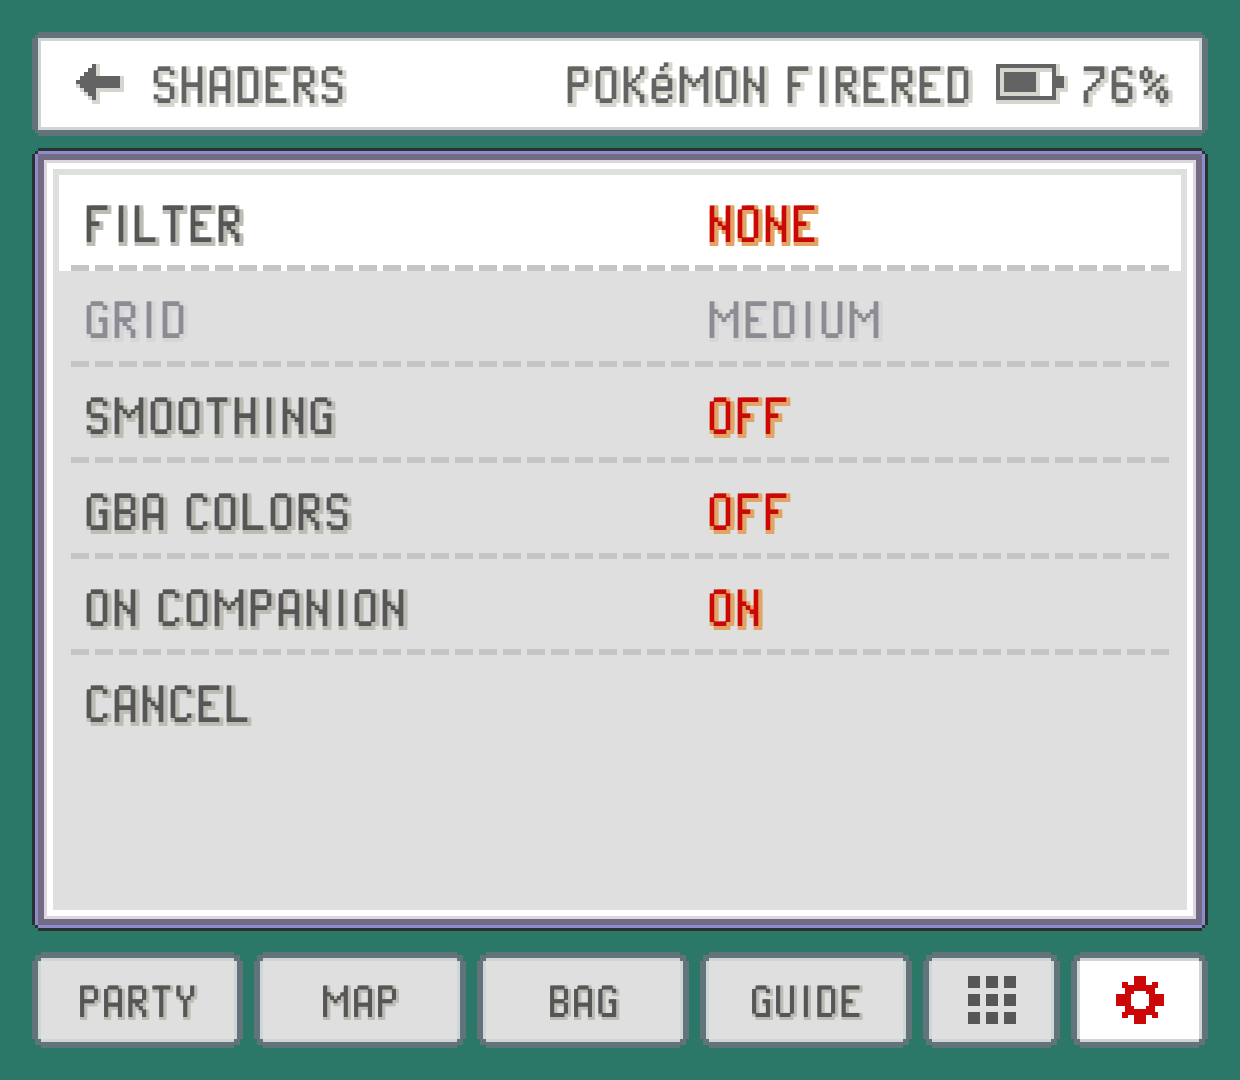
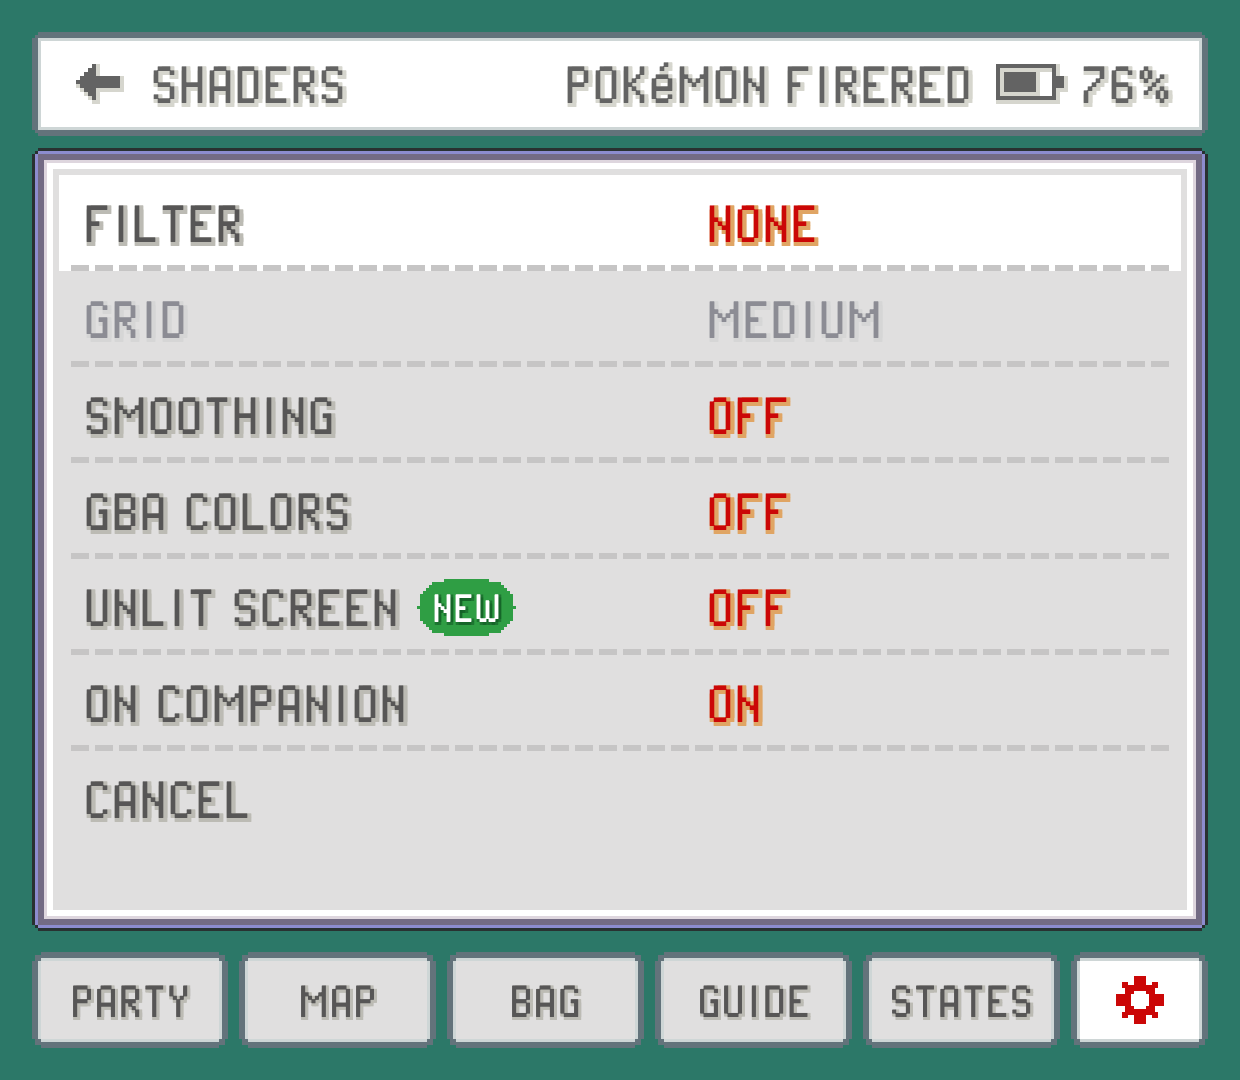
UNLIT SCREEN: the first GBA's unlit screen as a SHADERS switch (GitHub #105)
White shows the screen's grey-green backing instead of glowing, and dark pixels
drop a soft shadow down and to the right onto it. Our own shader (the issue's
examples were only looked at): in linear light, backing x the pixel x the cell the
light came in through, up-left of it. Its own pass between SMOOTHING and FILTER, at
FILTER's whole multiple or the view's pixels, so every filter stacks on it; the game
only, not ON COMPANION. Off by default, NEW tag on both screens, the manual,
translations and search words.

diff --git a/app/src/main/kotlin/com/pokedaisy/app/EmulatorView.kt b/app/src/main/kotlin/com/pokedaisy/app/EmulatorView.kt
@@ -187,6 +187,14 @@ class EmulatorView(context: Context) : GLSurfaceView(context) {
             renderer.setGbaColors(v)
         }
 
+    /** SHADERS > UNLIT SCREEN ([Prefs.unlitScreen], [ScreenShaders.UNLIT]): drawn between SMOOTHING and FILTER. */
+    var unlit: Boolean = false
+        set(v) {
+            if (field == v) return
+            field = v
+            renderer.setUnlit(v)
+        }
+
     /** SHADERS > FILTER's effect ([Prefs.screenFilter], [ScreenShaders.effectFor]); null = none. */
     internal var screenEffect: ScreenShaders.Effect? = null
         set(v) {
@@ -333,9 +341,9 @@ class EmulatorView(context: Context) : GLSurfaceView(context) {
     }
 
     /**
-     * Draws the frame in up to three passes: the GBA colour correction ([gbaColors]) at the
-     * GBA's own size, a prescaled screen effect ([setEffect]) at the largest whole multiple of
-     * it that fits, then the result onto the view - nearest-filtered, or smoothly once an
+     * Draws the frame in up to four passes: the GBA colour correction ([gbaColors]) at the
+     * GBA's own size, UNLIT SCREEN ([setUnlit]) at the size the next pass reads, a prescaled
+     * screen effect ([setEffect]) at the largest whole multiple of it that fits, then the result onto the view - nearest-filtered, or smoothly once an
      * effect has scaled it up (from a whole multiple, so its grid stays even). An effect that
      * isn't prescaled is that last pass itself. With neither, it's the one plain pass it always was.
      *
@@ -369,6 +377,7 @@ class EmulatorView(context: Context) : GLSurfaceView(context) {
         private var dirtyGeometry = true
         private var stretch = false
         private var gbaColors = false
+        private var unlit = false
         private var effect: ScreenShaders.Effect? = null
         /** SMOOTHING's passes; [smoothPrograms] are built from them on the GL thread. */
         private var smoothPasses: List<LoadedPass>? = null
@@ -389,11 +398,13 @@ class EmulatorView(context: Context) : GLSurfaceView(context) {
 
         private var plain: Program? = null
         private var colorProgram: Program? = null
+        private var unlitProgram: Program? = null
         private var effectProgram: Program? = null
         private var effectProgramFor: ScreenShaders.Effect? = null
         private var texId = 0
         private var texAllocated = false
         private var colorTarget = RenderTarget()
+        private var unlitTarget = RenderTarget()
         private var effectTarget = RenderTarget()
         @Volatile var holdFrame: () -> Boolean = { false }
         @Volatile var framesShown = 0L
@@ -486,6 +497,8 @@ class EmulatorView(context: Context) : GLSurfaceView(context) {
 
         fun setGbaColors(on: Boolean) = synchronized(lock) { gbaColors = on }
 
+        fun setUnlit(on: Boolean) = synchronized(lock) { unlit = on }
+
         fun setEffect(e: ScreenShaders.Effect?) = synchronized(lock) { effect = e }
 
         fun setGrid(x: Float, y: Float) = synchronized(lock) { gridX = x; gridY = y }
@@ -512,10 +525,12 @@ class EmulatorView(context: Context) : GLSurfaceView(context) {
             GLES20.glClearColor(0f, 0f, 0f, 1f)
             plain = Program(ScreenShaders.PLAIN)
             colorProgram = Program(ScreenShaders.GBA_COLOR)
+            unlitProgram = Program(ScreenShaders.UNLIT)
             overlayProgram = Program(ScreenShaders.OVERLAY)
             effectProgram = null
             effectProgramFor = null
             colorTarget = RenderTarget()
+            unlitTarget = RenderTarget()
             effectTarget = RenderTarget()
             smoothPrograms = null
             smoothBuiltFor = null
@@ -625,9 +640,27 @@ class EmulatorView(context: Context) : GLSurfaceView(context) {
                 input = smoothed
                 smooth = true
             }
+            // UNLIT SCREEN: at the size the next pass reads (FILTER's whole multiple, else the view's own pixels),
+            // since its shadow falls between GBA pixels; that pass then reads it where it is, like SMOOTHING's.
+            val shade = unlitProgram
+            var unlitDrawn = false
+            if (unlit && shade != null) {
+                val (w, h) = if (prescaled) texW * kx to texH * ky
+                    else maxOf(1, quadW.roundToInt()) to maxOf(1, quadH.roundToInt())
+                if (unlitTarget.ensure(w, h)) {
+                    // Read smoothly: the shadow's taps sit between pixels; its own pixel is read at its centre.
+                    GLES20.glBindFramebuffer(GLES20.GL_FRAMEBUFFER, unlitTarget.fbo)
+                    GLES20.glViewport(0, 0, w, h)
+                    drawQuad(shade, input, passUv, fullQuad, smooth = true, smoothed = smoothed != 0)
+                    input = unlitTarget.tex
+                    smooth = true
+                    unlitDrawn = true
+                }
+            }
+            val readsPicture = smoothed != 0 || unlitDrawn
             if (prescaled) {
                 if (effectTarget.ensure(texW * kx, texH * ky)) {
-                    pass(fx!!, input, effectTarget, sample = smoothed != 0)
+                    pass(fx!!, input, effectTarget, sample = readsPicture)
                     input = effectTarget.tex
                     smooth = true
                 }
@@ -637,7 +670,7 @@ class EmulatorView(context: Context) : GLSurfaceView(context) {
 
             GLES20.glBindFramebuffer(GLES20.GL_FRAMEBUFFER, 0)
             GLES20.glViewport(0, 0, surfaceW, surfaceH)
-            drawQuad(last, input, viewUv, pos, smooth, smoothed = smoothed != 0 && !prescaled)
+            drawQuad(last, input, viewUv, pos, smooth, smoothed = readsPicture && !prescaled)
             if (overlayOnTop && win == null) drawOverlay()
         }
 

diff --git a/app/src/main/kotlin/com/pokedaisy/app/ScreenShaders.kt b/app/src/main/kotlin/com/pokedaisy/app/ScreenShaders.kt
@@ -98,6 +98,40 @@ internal object ScreenShaders {
     """.trimIndent()
 
     /**
+     * SHADERS > UNLIT SCREEN ([Prefs.unlitScreen], GitHub #105): the GBA's own screen had no light of its
+     * own - room light went in through each LCD cell, off a grey-green backing behind it and out again,
+     * so white was that backing, never a glow. Ours, not a port (the issue's examples, Pixel Transparency
+     * and PT-SkyWalker541, were only looked at): in linear light a pixel is the backing times what its
+     * cell lets through, times what the cell the light came in through let through - up-left of it,
+     * [shadowOffset] GBA pixels, since the backing sits behind the cells - so dark pixels drop a soft
+     * shadow (four taps [shadowSoft] apart, read smoothly) onto the light ones beside them, while dark
+     * stays dark. Its own pass between SMOOTHING and FILTER (any filter draws over it), at the
+     * view's pixels or FILTER's whole multiple: the shadow falls between GBA pixels. Picked in the
+     * browser harness on Emerald's battle and FireRed's START menu at the Thor's 1620x1080.
+     */
+    val UNLIT = """
+        $HEADER
+        const float gamma = 2.2;
+        const vec3 backing = vec3(0.82, 0.84, 0.77);
+        const vec2 shadowOffset = vec2(0.6, 0.8);
+        const float shadowSoft = 0.4;
+        const float shadowStrength = 0.6;
+        const vec3 luma709 = vec3(0.2126, 0.7152, 0.0722);
+        float through(vec2 p) {
+            return dot(pow(texture2D(uTex, p / uTexSize).rgb, vec3(gamma)), luma709);
+        }
+        void main() {
+            vec2 pos = vUv * uTexSize;
+            vec3 c = texture2D(uTex, uSmoothed > 0.5 ? vUv : (floor(pos) + 0.5) / uTexSize).rgb;
+            vec2 s = pos - shadowOffset;
+            float t = 0.25 * (through(s + vec2(-shadowSoft, -shadowSoft)) + through(s + vec2(shadowSoft, -shadowSoft))
+                            + through(s + vec2(-shadowSoft, shadowSoft)) + through(s + vec2(shadowSoft, shadowSoft)));
+            vec3 l = pow(c, vec3(gamma)) * pow(backing, vec3(gamma)) * mix(1.0, t, shadowStrength);
+            gl_FragColor = vec4(pow(l, vec3(1.0 / gamma)), 1.0);
+        }
+    """.trimIndent()
+
+    /**
      * LCD: a dark grid line along the top and left third of every GBA pixel. mGBA's
      * `res/shaders/lcd.shader` (Copyright (C) 2017 Dominus Iniquitatis, MIT - see NOTICE),
      * its line brightness from GRID (`uGrid.x` darkening: SOFT 0.2 is about its 0.9 default doubled).

diff --git a/app/src/main/kotlin/com/pokedaisy/app/companion/ui/SettingRows.kt b/app/src/main/kotlin/com/pokedaisy/app/companion/ui/SettingRows.kt
@@ -99,7 +99,8 @@ val SETTING_KEYWORDS: Map<String, String> = mapOf(
     "HUD" to "field hud heads up display overlay party minimap mini map balls bag wild encounters overworld legends single screen",
     "ASPECT" to "stretch ratio fullscreen full screen size scale 3:2 wide widescreen 16:9 expand zoom",
     "AUTO ZOOM IN" to "expand wide zoom close-up closeup dialogue conversation sign menu text box pull in automatic",
-    "SHADERS" to "filter lcd crt scanlines grid gba colors color correction effects screen look smoothing xbr xbrz scalefx upscale hd edges",
+    "SHADERS" to "filter lcd crt scanlines grid gba colors color correction effects screen look smoothing xbr xbrz scalefx upscale hd edges unlit pixel transparency backlight",
+    "UNLIT SCREEN" to "pixel transparency transparent backlight backlit no backlight unlit reflective backing shadow drop shadow original gba screen white",
     "SMOOTHING" to "xbr xbrz scalefx upscale upscaler hd edges smooth anti alias filter",
     "OVERLAY" to "overlay overlays border borders bezel bezels frame skin retroarch background wallpaper decoration",
     "COMPANION" to "portrait phone bottom position layout",

diff --git a/app/src/main/kotlin/com/pokedaisy/app/companion/i18n/TrSettings.kt b/app/src/main/kotlin/com/pokedaisy/app/companion/i18n/TrSettings.kt
@@ -145,6 +145,7 @@ internal val trSettings: Map<String, Tr> = mapOf(
     "STRONG" to Tr(ja = "つよい", fr = "FORT", de = "STARK", it = "FORTE", es = "FUERTE", br = "FORTE", pt = "FORTE"),
     "SCANLINES" to Tr(ja = "スキャンライン", fr = "SCANLINES", de = "SCANLINES", it = "SCANLINE", es = "SCANLINES", br = "SCANLINES", pt = "SCANLINES"),
     "CRT" to Tr(ja = "ブラウンかん", fr = "CRT", de = "CRT", it = "CRT", es = "CRT", br = "CRT", pt = "CRT"),
+    "UNLIT SCREEN" to Tr(ja = "バックライト なし", fr = "SANS LUMIÈRE", de = "UNBELEUCHTET", it = "SENZA LUCE", es = "SIN LUZ", br = "SEM LUZ", pt = "SEM LUZ"),
     "GBA COLORS" to Tr(ja = "GBAの いろ", fr = "COULEURS GBA", de = "GBA-FARBEN", it = "COLORI GBA", es = "COLORES GBA", br = "CORES GBA", pt = "CORES GBA"),
     "ASPECT" to Tr(ja = "アスペクト", fr = "FORMAT", de = "FORMAT", it = "FORMATO", es = "FORMATO", br = "PROPORÇÃO", pt = "PROPORÇÃO"),
     "AUTO ZOOM IN" to Tr(ja = "オート ズームイン", fr = "ZOOM AUTO", de = "AUTO-ZOOM", it = "ZOOM AUTO", es = "ZOOM AUTO", br = "ZOOM AUTO", pt = "ZOOM AUTO"),

diff --git a/app/src/main/kotlin/com/pokedaisy/app/PokeDaisyActivity.kt b/app/src/main/kotlin/com/pokedaisy/app/PokeDaisyActivity.kt
@@ -1144,6 +1144,11 @@ class PokeDaisyActivity : Activity() {
             Prefs(this@PokeDaisyActivity).gbaColors = on
             runOnUiThread { syncGameScreen() }
         }
+        override val unlitScreen get() = Prefs(this@PokeDaisyActivity).unlitScreen
+        override fun setUnlitScreen(on: Boolean) {
+            Prefs(this@PokeDaisyActivity).unlitScreen = on
+            runOnUiThread { syncGameScreen() }
+        }
         override val screenFilter get() = Prefs(this@PokeDaisyActivity).screenFilter
         override fun setScreenFilter(filter: ScreenFilter) {
             Prefs(this@PokeDaisyActivity).screenFilter = filter
@@ -2135,6 +2140,7 @@ class PokeDaisyActivity : Activity() {
             engine.gbSceneGame = if (romIsGameBoy) wideGame else WideScreen.OFF
         }
         view.gbaColors = prefs.gbaColors
+        view.unlit = prefs.unlitScreen
         CompanionColors.set(
             prefs.gbaColors && prefs.companionShaders,
             if (prefs.companionShaders) prefs.screenFilter else ScreenFilter.NONE,

diff --git a/app/src/main/kotlin/com/pokedaisy/app/SettingsActivity.kt b/app/src/main/kotlin/com/pokedaisy/app/SettingsActivity.kt
@@ -795,6 +795,14 @@ class SettingsActivity : ComponentActivity() {
                 prefs.gbaColors = !prefs.gbaColors
                 revision++
             },
+            // The GBA's screen with no light of its own: white shows its backing, dark pixels cast a shadow; stacks too.
+            SettingRow(
+                tk("UNLIT SCREEN"), if (prefs.unlitScreen) tk("ON") else tk("OFF"),
+                labelBadge = com.pokedaisy.app.companion.NewFeatures.badge(com.pokedaisy.app.companion.NewFeatures.UNLIT_SCREEN),
+            ) {
+                prefs.unlitScreen = !prefs.unlitScreen
+                revision++
+            },
             // FILTER and GBA COLORS over the companion too (and the status bar).
             SettingRow(tk("ON COMPANION"), if (prefs.companionShaders) tk("ON") else tk("OFF")) {
                 prefs.companionShaders = !prefs.companionShaders

diff --git a/app/src/main/kotlin/com/pokedaisy/app/companion/ui/CompanionSettingsScreen.kt b/app/src/main/kotlin/com/pokedaisy/app/companion/ui/CompanionSettingsScreen.kt
@@ -633,6 +633,10 @@ private fun shaderRows(s: CompanionSettings, changed: () -> Unit): List<SettingR
         },
         // The colours as the GBA's own LCD showed them; stacks with any filter.
         SettingRow(tk("GBA COLORS"), if (s.gbaColors) tk("ON") else tk("OFF")) { s.setGbaColors(!s.gbaColors); changed() },
+        // The GBA's screen with no light of its own: white shows its backing, dark pixels cast a shadow; stacks too.
+        SettingRow(tk("UNLIT SCREEN"), if (s.unlitScreen) tk("ON") else tk("OFF"), labelBadge = NewFeatures.badge(NewFeatures.UNLIT_SCREEN)) {
+            s.setUnlitScreen(!s.unlitScreen); changed()
+        },
         // FILTER and GBA COLORS over this screen too (and the status bar).
         SettingRow(tk("ON COMPANION"), if (s.companionShaders) tk("ON") else tk("OFF")) { s.setCompanionShaders(!s.companionShaders); changed() },
     )

diff --git a/app/src/main/kotlin/com/pokedaisy/app/Prefs.kt b/app/src/main/kotlin/com/pokedaisy/app/Prefs.kt
@@ -372,6 +372,11 @@ class Prefs(context: Context) {
         get() = p.getBoolean("gba_colors", false)
         set(v) = p.edit().putBoolean("gba_colors", v).apply()
 
+    /** SHADERS > UNLIT SCREEN: the GBA's screen with no light of its own - white is its backing ([ScreenShaders.UNLIT]). */
+    var unlitScreen: Boolean
+        get() = p.getBoolean("unlit_screen", false)
+        set(v) = p.edit().putBoolean("unlit_screen", v).apply()
+
     /** The screen effect over the game: LCD grid, scanlines or CRT ([ScreenShaders.effectFor]). */
     var screenFilter: ScreenFilter
         get() = ScreenFilter.entries.firstOrNull { it.name == p.getString("screen_filter", null) } ?: ScreenFilter.NONE

diff --git a/app/src/main/kotlin/com/pokedaisy/app/companion/NewFeatures.kt b/app/src/main/kotlin/com/pokedaisy/app/companion/NewFeatures.kt
@@ -46,10 +46,13 @@ object NewFeatures {
     /** SETTINGS > REUSABLE TMS: a TM stays in the bag after it teaches a move (companion.data.ReusableTms). */
     const val REUSABLE_TMS = "reusable_tms"
 
+    /** SETTINGS > SHADERS > UNLIT SCREEN: the GBA's screen with no light of its own (ScreenShaders.UNLIT). */
+    const val UNLIT_SCREEN = "unlit_screen"
+
     /** Every feature that gets the tag. */
     val ALL = listOf(
         HUD, BATTLE_BUTTONS, GAME_HOTKEYS, COMPANION_WINDOW, HUD_PC, QUICK_MENU, HUD_REPEL, SINGLE_SCREEN, MORE_TAB, TOUCH_CONTROLS,
-        COMPANION_TAB, REUSABLE_TMS,
+        COMPANION_TAB, REUSABLE_TMS, UNLIT_SCREEN,
     )
 
     private const val DAYS = 7

diff --git a/ui-preview/src/render/Main.kt b/ui-preview/src/render/Main.kt
@@ -217,6 +217,9 @@ class FakeSettings(showHintsInitially: Boolean = true, initialTabs: List<String>
     private var colors = false
     override val gbaColors get() = colors
     override fun setGbaColors(on: Boolean) { colors = on }
+    private var unlit = false
+    override val unlitScreen get() = unlit
+    override fun setUnlitScreen(on: Boolean) { unlit = on }
     private var filter = com.pokedaisy.app.companion.ScreenFilter.NONE
     override val screenFilter get() = filter
     override fun setScreenFilter(filter: com.pokedaisy.app.companion.ScreenFilter) { this.filter = filter }

diff --git a/app/src/main/kotlin/com/pokedaisy/app/companion/CompanionSettings.kt b/app/src/main/kotlin/com/pokedaisy/app/companion/CompanionSettings.kt
@@ -249,6 +249,10 @@ interface CompanionSettings {
     val gbaColors: Boolean
     fun setGbaColors(on: Boolean)
 
+    /** The unlit GBA screen on the game - see [Prefs.unlitScreen]. */
+    val unlitScreen: Boolean get() = false
+    fun setUnlitScreen(on: Boolean) {}
+
     /** The screen effect over the game - see [Prefs.screenFilter]. */
     val screenFilter: ScreenFilter
     fun setScreenFilter(filter: ScreenFilter)

diff --git a/docs/manual/screen.md b/docs/manual/screen.md
@@ -3,7 +3,7 @@ title: Screen, aspect and shaders
 summary: Change how the game sits on the top screen and how it looks, from widescreen EXPAND to LCD and CRT filters, frames and dark mode.
 section: player
 order: 3
-keywords: [widescreen, fullscreen, 16:9, 3:2, ratio, bezel, border, frame, crt, lcd, scanlines, xbrz, scalefx, upscale, night, appearance, framerate, fps, performance, graphics, look]
+keywords: [widescreen, fullscreen, 16:9, 3:2, ratio, bezel, border, frame, crt, lcd, scanlines, xbrz, scalefx, upscale, unlit, backlight, pixel transparency, night, appearance, framerate, fps, performance, graphics, look]
 ---
 
 The top screen is wider than a GBA, so there's a choice to make about the space around the game. You can keep the GBA's own shape, stretch it, or let PokeDaisy draw more of the world into the gaps. On top of that you can run the picture through a filter, put a frame around it and switch the app's windows to a dark look.
@@ -65,9 +65,9 @@ The clock follows your device's 12 or 24 hour setting. Money shows for the games
 
 ## Shaders
 
-`SHADERS` opens a page of effects for how the game is drawn. They stack: you can have smoothing, the GBA's colours and a filter all at once.
+`SHADERS` opens a page of effects for how the game is drawn. They stack: you can have smoothing, the GBA's colours, the unlit screen and a filter all at once.
 
-![The SHADERS page with FILTER, GRID, SMOOTHING, GBA COLORS and ON COMPANION rows](shots/settings-shaders.png)
+![The SHADERS page with FILTER, GRID, SMOOTHING, GBA COLORS, UNLIT SCREEN and ON COMPANION rows](shots/settings-shaders.png)
 
 ### Filter
 
@@ -98,9 +98,13 @@ Smoothing only applies to the game, never to the companion. On devices whose gra
 
 The GBA's own screen was darker and less saturated than a modern one, and the games' colours were picked for it. `GBA COLORS` shows them the way they looked back then. It works with any filter. Off by default.
 
+### UNLIT SCREEN
+
+The first GBA had no light behind its screen. Light from the room went in through the screen and bounced off a dull grey green backing, so white parts of the picture showed that backing instead of glowing, and dark pixels cast a faint shadow onto it, down and to the right. `UNLIT SCREEN` draws the game that way. It's softer on the eyes than bright white, and it pairs well with `GBA COLORS` and the `LCD` filter. Off by default.
+
 ### On the companion too
 
-`ON COMPANION` (on by default) puts the same `FILTER` and `GBA COLORS` over the companion screen and the status bar, so both screens match. The grid is sized to the game's pixels, so the lines line up with the top screen's. This needs Android 13 or newer; on older devices the companion keeps its plain look.
+`ON COMPANION` (on by default) puts the same `FILTER` and `GBA COLORS` (not `UNLIT SCREEN`) over the companion screen and the status bar, so both screens match. The grid is sized to the game's pixels, so the lines line up with the top screen's. This needs Android 13 or newer; on older devices the companion keeps its plain look.
 
 ## Overlay: a frame around the game
 
